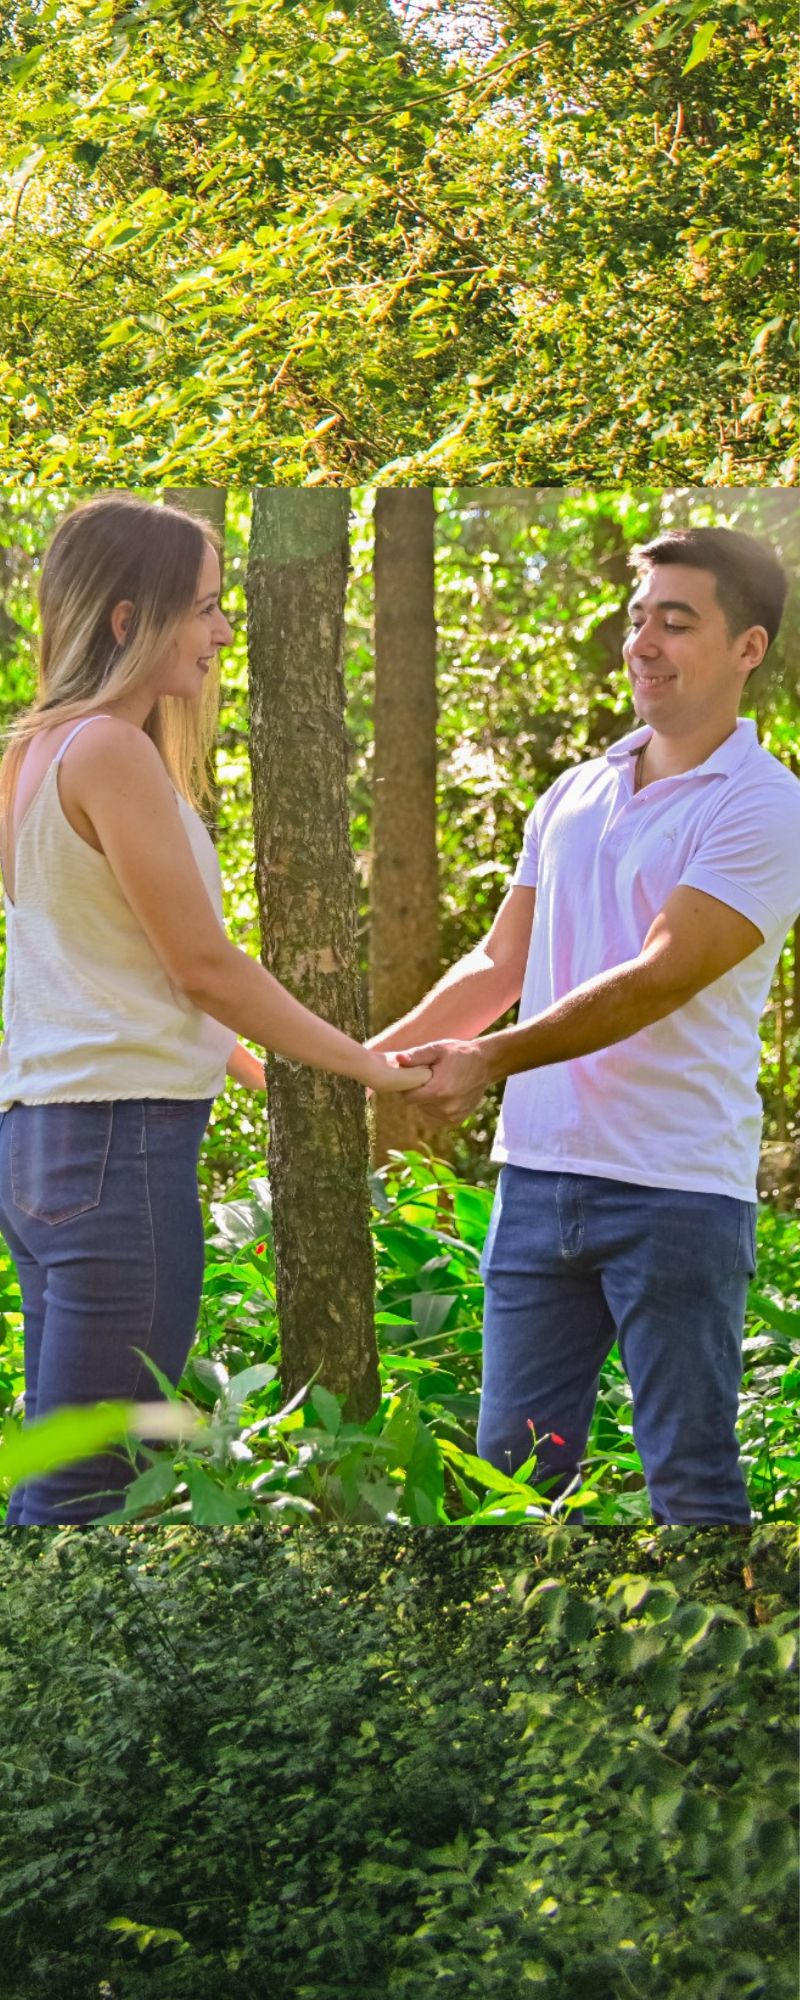
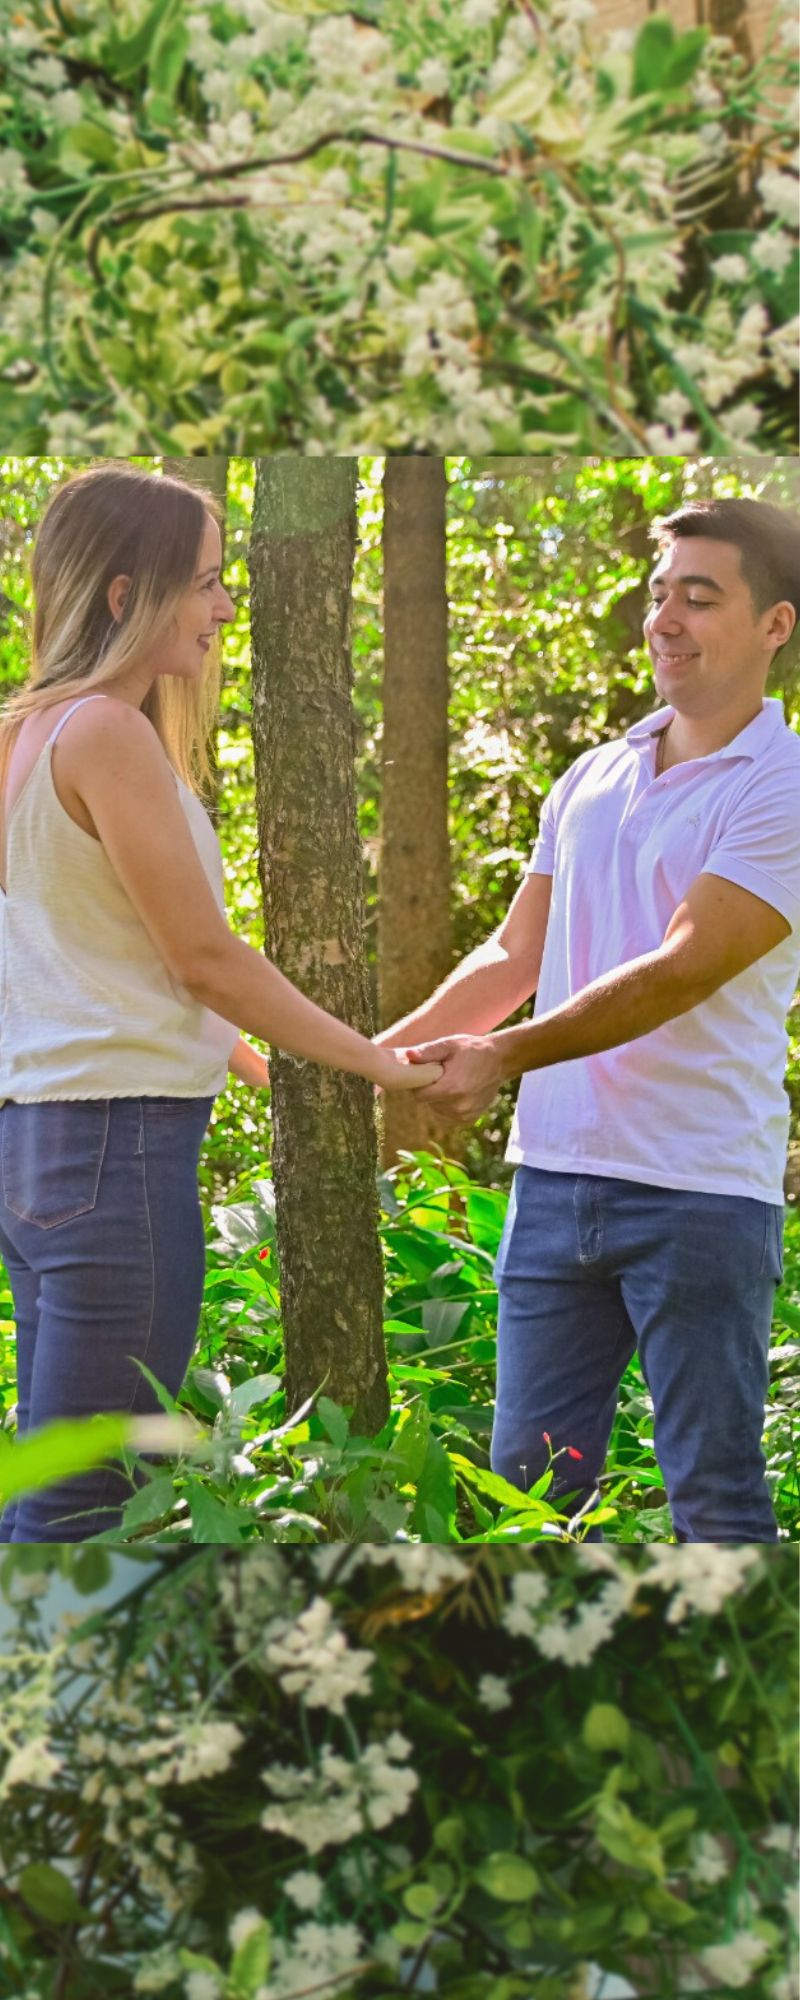
prueba final

diff --git a/src/components/home/styles.css b/src/components/home/styles.css
@@ -78,7 +78,7 @@
 @media screen and (max-width: 980px) {
   .home-container {
     height: 100vh;
-    background: url(../../../public/images/photos-bere-gaston/mobile4.jpg);
+    background: url(../../../public/images/photos-bere-gaston/mobile.jpg);
     background-repeat: no-repeat;
     background-position-y:50%;
     background-size: cover;
